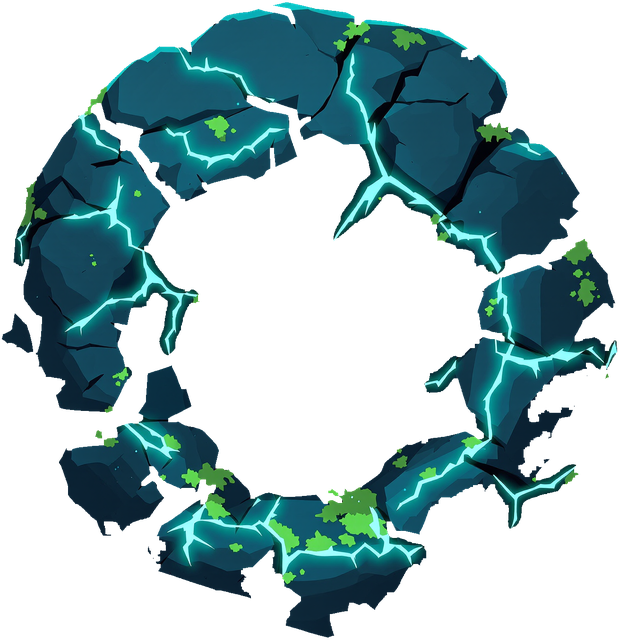
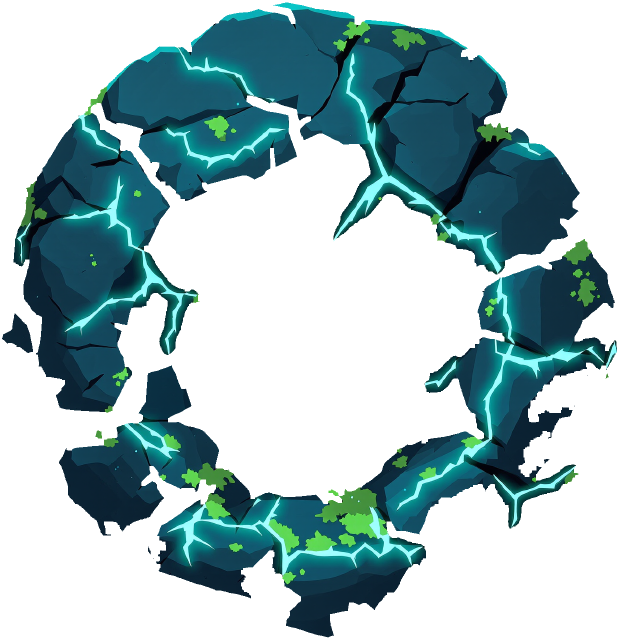
Rock cut: downscale with BOX area-average, not LANCZOS (kills edge speckle)
The feathering fix in the prior commit removed the pre-downscale blur and the
straight-alpha resize, but the edge was still wrong: LANCZOS ringing.

LANCZOS has negative lobes. On a sprite whose bright cyan veins run right up to the
transparent edge, those lobes pull the vein colour a pixel or two PAST the true
silhouette and lay down faint specks in empty space — and the un-premultiply then
amplifies them (a small premultiplied value over a tiny alpha reads as a saturated
colour). That speckle halo, worst over a pale backing, was the feathering that still
looked off. Measured on horseshoe: ~3900 saturated floating specks with LANCZOS.

Downscale is now a BOX (area-average) filter, which has no negative lobes and is the
correct resample for a pure reduction. Same sprite: ~40 floating specks, and those
are genuine partial-coverage AA carrying the rock's real colour, not ringing. The
edge ramp is now a clean single AA pixel matching the shipped rockform1/5 profile
(0 0 0 0 120 255), and each AA pixel's colour matches the interior it borders instead
of a floating teal speck. A 6/255 alpha floor clears the last sub-visible dust.

Re-verified end to end: tuner UI checks pass, browser preview still equals the Python
finals pixel-for-pixel (alpha identical in every pixel, visible RGB within 4/255),
build clean, 5/5 tests.

Changed region(s): [[0.9822, 0.5312, 1.0, 0.5625]]

diff --git a/dist/artifact.html b/dist/artifact.html
@@ -1520,8 +1520,8 @@
 <div id="ui"></div>
 <script>
 'use strict';
-window.__ASSET_VER = "6b6nrh";
-globalThis.__BUILD__ = "local 07-26 13:08";
+window.__ASSET_VER = "1ovfls7";
+globalThis.__BUILD__ = "local 07-26 13:20";
 
 // ===================== src/config.js =====================
 const __m_config = (function () {

diff --git a/dist/index.html b/dist/index.html
@@ -1526,8 +1526,8 @@
 <div id="ui"></div>
 <script>
 'use strict';
-window.__ASSET_VER = "6b6nrh";
-globalThis.__BUILD__ = "local 07-26 13:08";
+window.__ASSET_VER = "1ovfls7";
+globalThis.__BUILD__ = "local 07-26 13:20";
 
 // ===================== src/config.js =====================
 const __m_config = (function () {

diff --git a/scripts/rock_cut.py b/scripts/rock_cut.py
@@ -149,12 +149,22 @@ def cut(raw, long_side=640, margin=20, close=2, punch_holes=False, shrink=1.0,
     er = int(round(shrink / sc))
     for _ in range(er): solid = solid.filter(ImageFilter.MinFilter(3))
 
-    # --- premultiply -> downscale -> un-premultiply ----------------------------------------
+    # --- premultiply -> downscale (BOX) -> un-premultiply ----------------------------------
+    # Downscale with a BOX (area-average) filter, NOT LANCZOS. LANCZOS has negative lobes: on a
+    # sprite with bright cyan veins right up against the transparent edge, its ringing pulls that
+    # colour a pixel or two past the true silhouette and deposits faint, saturated specks in
+    # empty space — and the un-premultiply then AMPLIFIES them (small value / tiny alpha). That
+    # speckle halo was the "feathering". Measured, LANCZOS left ~3900 saturated floating specks
+    # on horseshoe; BOX leaves ~40 (genuine partial-coverage AA, not ringing). BOX is the ideal
+    # area resample for a pure downscale and rings not at all.
     sz = (max(1, round(w * sc)), max(1, round(h * sc)))
     pm = Image.merge("RGB", [ImageChops.multiply(c, solid) for c in im.split()])
-    a_s = solid.resize(sz, Image.LANCZOS)
-    pm_s = pm.resize(sz, Image.LANCZOS)
+    a_s = solid.resize(sz, Image.BOX)
+    pm_s = pm.resize(sz, Image.BOX)
     out = _unpremultiply(pm_s, a_s).convert("RGBA")
+    # Floor away the last of the sub-visible dust (a genuine 1/255 sliver reads as nothing but
+    # keeps the file from carrying stray colour). Anything with real coverage is well above this.
+    a_s = a_s.point(lambda v: 0 if v < 6 else v)
     out.putalpha(a_s)
     return out, {"bg": bg, "otsu": T, "light_bg": light_bg}
 
